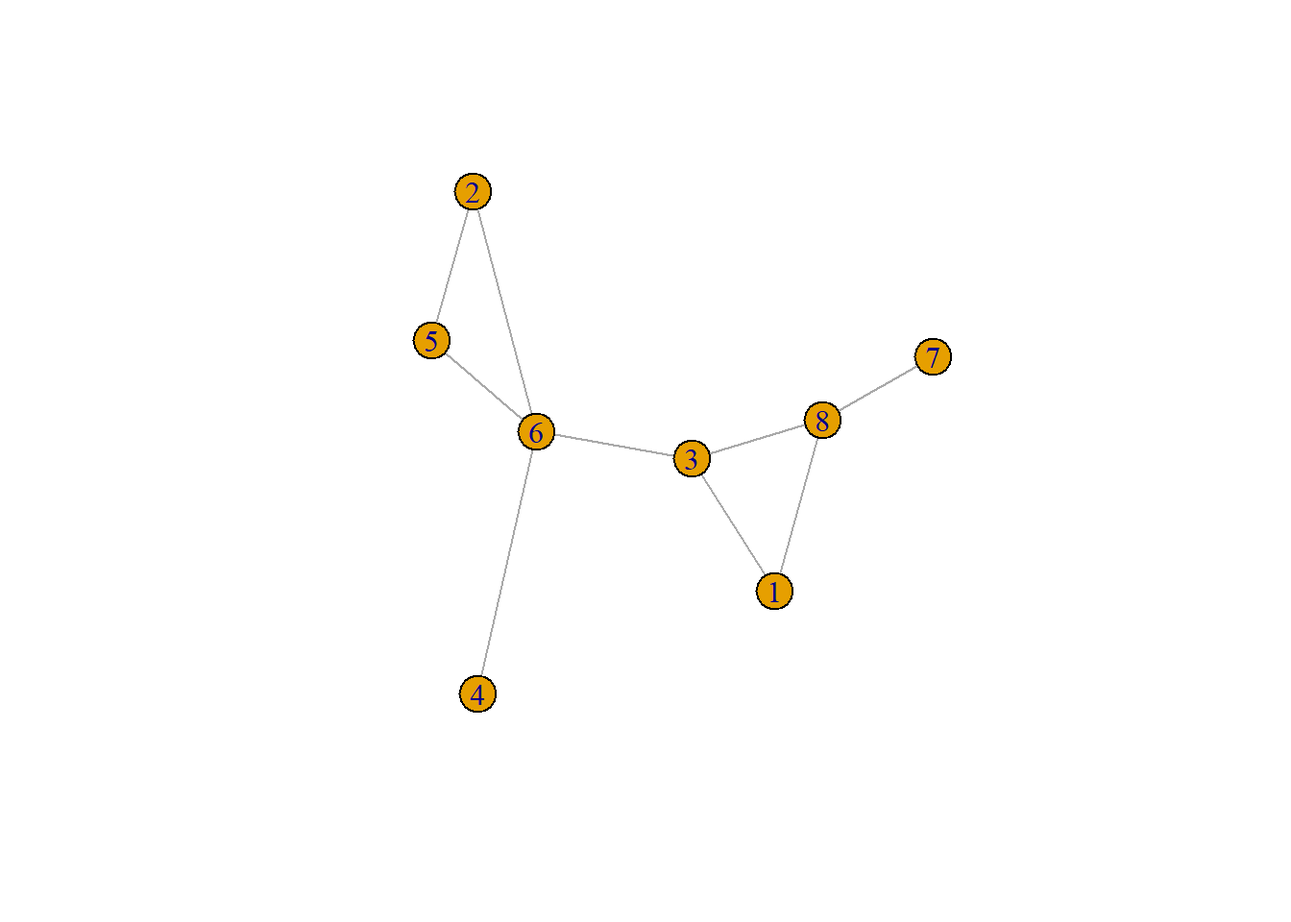
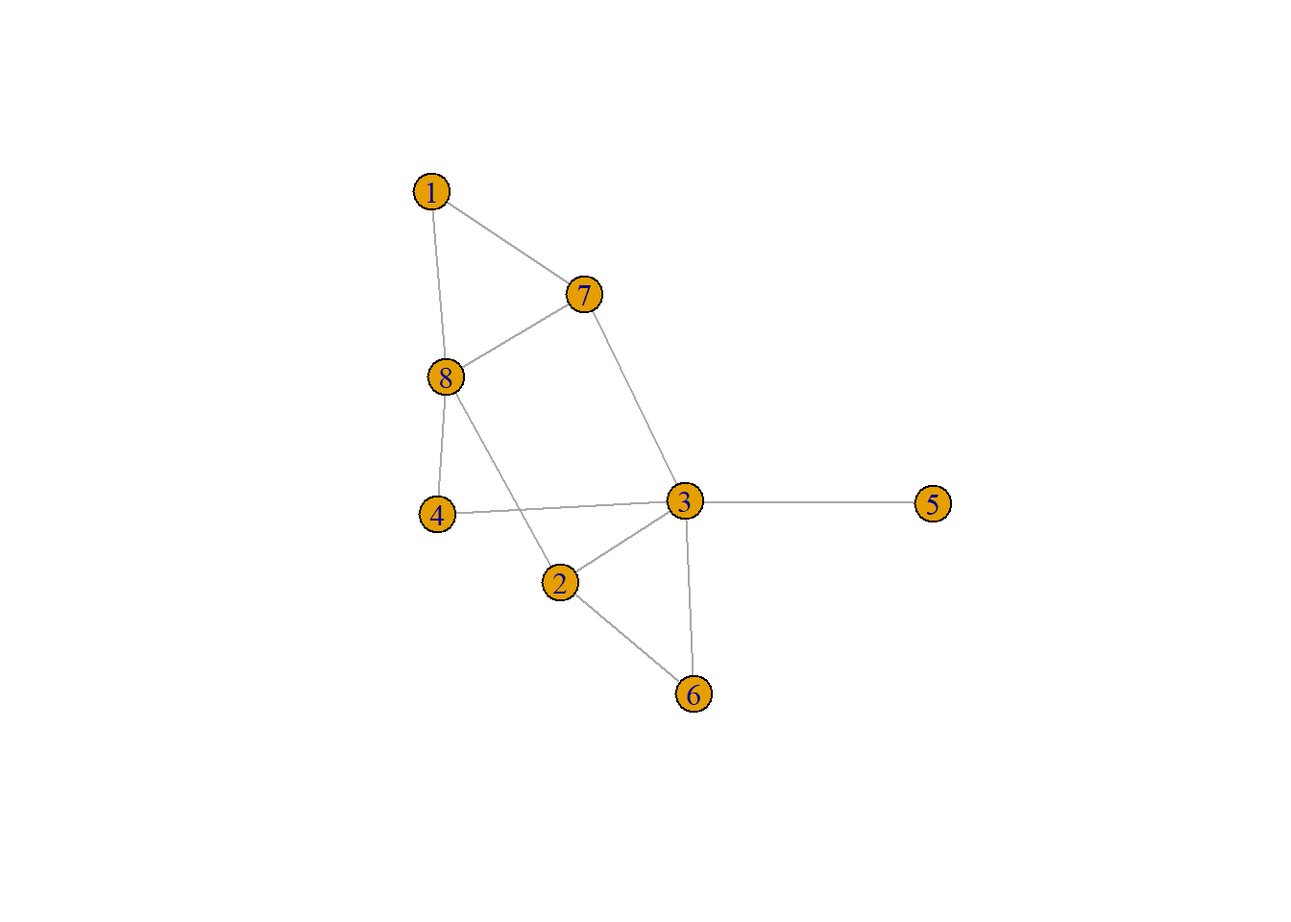
cube update

diff --git a/docs/cube.html b/docs/cube.html
@@ -150,7 +150,7 @@ div.csl-indent {
 
 <link rel="stylesheet" href="styles.css">
 <meta property="og:title" content="SOCIOL 208 - The Cube">
-<meta property="og:description" content="Brandes, Borgatti, and Freeman (2016) discuss the centrality “cube,” and interesting an intuitive way to understand the way betweenness centrality works, as well as the dual connection between…">
+<meta property="og:description" content="Brandes, Borgatti, and Freeman (2016) discuss the centrality “cube,” an interesting and intuitive way to understand the way betweenness centrality works, as well as the dual connection between…">
 <meta property="og:site-name" content="SOCIOL 208">
 </head>
 
@@ -266,7 +266,14 @@ div.csl-indent {
 </nav>
 <!-- margin-sidebar -->
     <div id="quarto-margin-sidebar" class="sidebar margin-sidebar">
-        
+        <nav id="TOC" role="doc-toc" class="toc-active">
+    <h2 id="toc-title">On this page</h2>
+   
+  <ul>
+  <li><a href="#building-the-cube" id="toc-building-the-cube" class="nav-link active" data-scroll-target="#building-the-cube">Building the Cube</a></li>
+  <li><a href="#exploring-the-cube" id="toc-exploring-the-cube" class="nav-link" data-scroll-target="#exploring-the-cube">Exploring the Cube</a></li>
+  </ul>
+<div class="toc-actions"><div><i class="bi bi-github"></i></div><div class="action-links"><p><a href="https://github.com/olizardo/SOCIOL208/blob/main/cube.qmd" class="toc-action">View source</a></p></div></div></nav>
     </div>
 <!-- main -->
 <main class="content" id="quarto-document-content">
@@ -288,11 +295,11 @@ div.csl-indent {
 
 </header>
 
-<p><span class="citation" data-cites="brandes_etal16">Brandes, Borgatti, and Freeman (<a href="#ref-brandes_etal16" role="doc-biblioref">2016</a>)</span> discuss the centrality “cube,” and interesting an intuitive way to understand the way betweenness centrality works, as well as the dual connection between closeness and betweenness.</p>
+<p><span class="citation" data-cites="brandes_etal16">Brandes, Borgatti, and Freeman (<a href="#ref-brandes_etal16" role="doc-biblioref">2016</a>)</span> discuss the centrality “cube,” an interesting and intuitive way to understand the way betweenness centrality works, as well as the dual connection between closeness and betweenness.</p>
 <p>Let us illustrate using a simple example. We begin by creating an Erdos-Renyi graph with eight nodes and connection probability <span class="math inline">\(p = 0.5\)</span>:</p>
 <div class="cell">
 <div class="sourceCode cell-code" id="cb1"><pre class="sourceCode numberSource r number-lines code-with-copy"><code class="sourceCode r"><span id="cb1-1"><a href="#cb1-1"></a>   <span class="fu">library</span>(igraph)</span>
-<span id="cb1-2"><a href="#cb1-2"></a>   <span class="fu">set.seed</span>(<span class="dv">234</span>)</span>
+<span id="cb1-2"><a href="#cb1-2"></a>   <span class="fu">set.seed</span>(<span class="dv">345</span>)</span>
 <span id="cb1-3"><a href="#cb1-3"></a>   g <span class="ot">&lt;-</span> <span class="fu">erdos.renyi.game</span>(<span class="dv">8</span>, <span class="fl">0.5</span>)</span></code><button title="Copy to Clipboard" class="code-copy-button"><i class="bi"></i></button></pre></div>
 </div>
 <p>The resulting graph looks like:</p>
@@ -302,9 +309,11 @@ div.csl-indent {
 </div>
 </div>
 <p>The basic innovation behind the centrality cube is to store the intermediation information among every node triplet in the graph <span class="math inline">\(s\)</span>, <span class="math inline">\(r\)</span>, <span class="math inline">\(b\)</span> (standing for “<strong>s</strong>ender,” <strong>r</strong>eceiver,” and “<strong>b</strong>roker”) in a three dimensional <em>array</em> rather than the usual two dimensional matrix.</p>
-<p>The three dimensional array can be thought of as a “cube” by stacking multiple reachability matrices between every pair <span class="math inline">\(s\)</span> and <span class="math inline">\(r\)</span> along a three dimensional dimension <span class="math inline">\(b\)</span>. So each “b-slice” of the cube will contain the number of times node <span class="math inline">\(b\)</span> stands in a shortest path between <span class="math inline">\(s\)</span> and <span class="math inline">\(r\)</span>.</p>
+<p>The three dimensional array can be thought of as a “cube” by stacking multiple reachability matrices between every pair <span class="math inline">\(s\)</span> and <span class="math inline">\(r\)</span> along a three dimensional dimension <span class="math inline">\(b\)</span>. So each “b-slice” of the cube will contain the number of times node <span class="math inline">\(b\)</span> stands in a shortest path between <span class="math inline">\(s\)</span> and <span class="math inline">\(r\)</span> divided by the total number of paths between <span class="math inline">\(s\)</span> and <span class="math inline">\(r\)</span> which as you recall computes the pairwise betweenness of <span class="math inline">\(b\)</span> with respect to <span class="math inline">\(s\)</span> and <span class="math inline">\(r\)</span>.</p>
 <p>Let’s see how that works.</p>
-<p>First, we build a simple function to count the total number of shortest paths between each pair of nodes:</p>
+<section id="building-the-cube" class="level2">
+<h2 class="anchored" data-anchor-id="building-the-cube">Building the Cube</h2>
+<p>First, we write a simple function to count the total number of shortest paths between each pair of nodes:</p>
 <div class="cell">
 <div class="sourceCode cell-code" id="cb2"><pre class="sourceCode numberSource r number-lines code-with-copy"><code class="sourceCode r"><span id="cb2-1"><a href="#cb2-1"></a>   nsp <span class="ot">&lt;-</span> <span class="cf">function</span>(x) {</span>
 <span id="cb2-2"><a href="#cb2-2"></a>      n <span class="ot">&lt;-</span> <span class="fu">vcount</span>(g)</span>
@@ -319,8 +328,8 @@ div.csl-indent {
 <span id="cb2-11"><a href="#cb2-11"></a>      <span class="fu">return</span>(S)</span>
 <span id="cb2-12"><a href="#cb2-12"></a>   }</span></code><button title="Copy to Clipboard" class="code-copy-button"><i class="bi"></i></button></pre></div>
 </div>
-<p>The function is called <code>nsp</code> and takes a graph as input and returns and matrix called <span class="math inline">\(\mathbf{S}\)</span> with entries <span class="math inline">\(s_{ij}\)</span> equal to the total number of shortest paths between <span class="math inline">\(i\)</span> and <span class="math inline">\(j\)</span>. This is done by computing the <code>length</code> of the list returned by the <code>all_shortest_paths</code> function in <code>igraph</code> for each pair of non-adjacent nodes.</p>
-<p>Second, we write a user function to build the cube. Here’s a not-so-efficient (programming wise) but working example:</p>
+<p>The function is called <code>nsp</code> and takes a graph as input and returns and matrix called <span class="math inline">\(\mathbf{S}\)</span> with entries <span class="math inline">\(s_{ij}\)</span> equal to the total number of shortest paths between <span class="math inline">\(i\)</span> and <span class="math inline">\(j\)</span>. This is done by computing the <code>length</code> of the list returned by the <code>all_shortest_paths</code> function in <code>igraph</code> for each pair of non-adjacent nodes, which we check using the <code>neighbors</code> function (which returns a vector of the node ids of nodes adjacent to a given node <span class="math inline">\(i\)</span> in the graph). The <code>all_shortest_paths</code> function, in turn, takes three inputs: (1) A graph, (2) the sender node, and (3) the receiver node (which can be a vector of receiver nodes).</p>
+<p>Second, we write a user defined function to build the cube. Here’s a not-so-efficient (programming wise) but working example:</p>
 <div class="cell">
 <div class="sourceCode cell-code" id="cb3"><pre class="sourceCode numberSource r number-lines code-with-copy"><code class="sourceCode r"><span id="cb3-1"><a href="#cb3-1"></a>   cube <span class="ot">&lt;-</span> <span class="cf">function</span>(g) {</span>
 <span id="cb3-2"><a href="#cb3-2"></a>   kill.ends <span class="ot">&lt;-</span> <span class="cf">function</span>(x) {</span>
@@ -352,62 +361,89 @@ div.csl-indent {
 <span id="cb3-28"><a href="#cb3-28"></a>      c[, , i] <span class="ot">&lt;-</span> c[, , i]<span class="sc">/</span>S</span>
 <span id="cb3-29"><a href="#cb3-29"></a>      }</span>
 <span id="cb3-30"><a href="#cb3-30"></a>   c[<span class="fu">is.na</span>(c)] <span class="ot">&lt;-</span> <span class="dv">0</span></span>
-<span id="cb3-31"><a href="#cb3-31"></a>   c <span class="ot">&lt;-</span> <span class="fu">round</span>(c, <span class="dv">2</span>)</span>
-<span id="cb3-32"><a href="#cb3-32"></a>   <span class="fu">return</span>(c)</span>
-<span id="cb3-33"><a href="#cb3-33"></a>   }</span></code><button title="Copy to Clipboard" class="code-copy-button"><i class="bi"></i></button></pre></div>
+<span id="cb3-31"><a href="#cb3-31"></a>   <span class="fu">return</span>(c)</span>
+<span id="cb3-32"><a href="#cb3-32"></a>   }</span></code><button title="Copy to Clipboard" class="code-copy-button"><i class="bi"></i></button></pre></div>
 </div>
 <p>We name the function <code>cube</code>. Lines 2-5 it’s just a mini-function called <code>kill.ends</code> within the <code>cube</code> function that takes a vector as input and returns the same vector minus the first and last element as output. This will come in handy when we want to extract the <strong>inner nodes</strong> (brokers) of the path information returned by the <code>igraph</code> function <code>all_shortest_paths</code> while dropping the sender and receiver nodes.</p>
 <p>Line 8 initializes the <code>array</code> in <code>R</code>. It takes a string of zeros of length <span class="math inline">\(n^2 \times n\)</span> where <span class="math inline">\(n\)</span> is the number of nodes and crams them into an <span class="math inline">\(n \times n \times n\)</span> array. Basically, in this case, since <span class="math inline">\(n = 8\)</span>, this means eight empty matrices of dimensions eighth by eight stacked together to form our cube full of zeros. The <span class="math inline">\(ijk^{th}\)</span> cell of the array corresponds to sender <span class="math inline">\(i\)</span>, receiver <span class="math inline">\(j\)</span> and broker node <span class="math inline">\(k\)</span>.</p>
-<p>Lines 9-22 populate the cube with the required information using an (inefficient as noted earlier) triple <code>for</code> loop. As noted some useful <code>igraph</code> functions come into play here. In line 12 the <code>if</code> conditional inside the triple loop uses the <code>neighbors</code> function in <code>igraph</code> and checks that node <span class="math inline">\(r\)</span> is not a neighbor of <span class="math inline">\(s\)</span> (if they are directly connected then node <span class="math inline">\(b\)</span> cannot be a broker).</p>
+<p>Lines 9-25 populate the cube with the required information using an (inefficient as noted earlier) triple <code>for</code> loop. As noted some, useful <code>igraph</code> functions come into play here. In line 12 the <code>if</code> conditional inside the triple loop uses the <code>neighbors</code> function in <code>igraph</code> and checks that node <span class="math inline">\(r\)</span> is not a neighbor of <span class="math inline">\(s\)</span> (if they are directly connected then node <span class="math inline">\(b\)</span> cannot be a broker).</p>
 <p>After we check that <span class="math inline">\(s\)</span> and <span class="math inline">\(r\)</span> are not neighbors, we use the <code>all_shortest_paths</code> function in <code>igraph</code> to get all the shortest paths between <span class="math inline">\(s\)</span> and <span class="math inline">\(r\)</span> in line 13. Line 14 drops the source and receiver nodes from the vector of node ids returned by the function, and line 15 uses some <code>sapply</code> magic and the base <code>R</code> function <code>%in%</code> to check how many times <span class="math inline">\(b\)</span> shows up in that list of shortest paths between <span class="math inline">\(s\)</span> and <span class="math inline">\(r\)</span>. Finally, line 15 puts that number in the <span class="math inline">\(ijk^{th}\)</span> cell of the array, and loop through all triplets until we are done.</p>
+<p>Lines 27-29 loop through the cube again, this time to take the ratio of the number of shortest paths involving each broker node to the <em>total</em> number of shortest paths between each pair (the pairwise betweenness), which we computed in line 26 using our trusty <code>nsp</code> function. So all we have to do is divided each eight by eight matrix in the cube by the <span class="math inline">\(S\)</span> matrix.</p>
+</section>
+<section id="exploring-the-cube" class="level2">
+<h2 class="anchored" data-anchor-id="exploring-the-cube">Exploring the Cube</h2>
 <p>Once we have our array, we can create all kinds of interesting sub-matrices containing the intermediation information in the graph by summing rows and columns of the array along different dimensions.</p>
-<p>For instance, let’s take the row sums of the <span class="math inline">\(s\)</span> to <span class="math inline">\(r\)</span> corresponding to node 6 as the broker. This can be done like this:</p>
+<p>First, let us see what’s in the cube. We can query specific two-dimensional sub-matrices using an extension of the usual format for querying matrices in <code>R</code> for three-dimensional arrays. For instance this:</p>
 <div class="cell">
 <div class="sourceCode cell-code" id="cb4"><pre class="sourceCode numberSource r number-lines code-with-copy"><code class="sourceCode r"><span id="cb4-1"><a href="#cb4-1"></a>   srb <span class="ot">&lt;-</span> <span class="fu">cube</span>(g)</span>
-<span id="cb4-2"><a href="#cb4-2"></a>   <span class="fu">rowSums</span>(srb[ , , <span class="dv">6</span>])</span></code><button title="Copy to Clipboard" class="code-copy-button"><i class="bi"></i></button></pre></div>
+<span id="cb4-2"><a href="#cb4-2"></a>   <span class="fu">round</span>(srb[, , <span class="dv">2</span>], <span class="dv">2</span>)</span></code><button title="Copy to Clipboard" class="code-copy-button"><i class="bi"></i></button></pre></div>
 <div class="cell-output cell-output-stdout">
-<pre><code>[1] 3 5 3 6 5 0 3 3</code></pre>
+<pre><code>     [,1] [,2] [,3] [,4] [,5] [,6] [,7] [,8]
+[1,]  0.0    0 0.00    0 0.00  0.5    0 0.00
+[2,]  0.0    0 0.00    0 0.00  0.0    0 0.00
+[3,]  0.0    0 0.00    0 0.00  0.0    0 0.33
+[4,]  0.0    0 0.00    0 0.00  0.0    0 0.00
+[5,]  0.0    0 0.00    0 0.00  0.0    0 0.33
+[6,]  0.5    0 0.00    0 0.00  0.0    0 1.00
+[7,]  0.0    0 0.00    0 0.00  0.0    0 0.00
+[8,]  0.0    0 0.33    0 0.33  1.0    0 0.00</code></pre>
 </div>
 </div>
-<p>As <span class="citation" data-cites="brandes_etal16">Brandes, Borgatti, and Freeman (<a href="#ref-brandes_etal16" role="doc-biblioref">2016</a>)</span>, note this vector gives us the dependence of each node in the graph on node 6. Obviously node 6 doesn’t depend on itself so there is a zero on the sixth spot in the vector. As is clear from the plot, nodes 2 and 5 are the most dependent on 6 for intermediation.</p>
+<p>Creates a three-dimensional matrix of pairwise betweenness probabilities, assigns it to the <code>srb</code> object, and looks at the <span class="math inline">\(i \times j \times 2\)</span> entry.</p>
+<p>Because each sub-matrix in the cube is a matrix, we can do the usual matrix operations on them. For instance, let’s take the row sums of the <span class="math inline">\(s\)</span> to <span class="math inline">\(r\)</span> corresponding to node 3 as the broker. This can be done like this:</p>
+<div class="cell">
+<div class="sourceCode cell-code" id="cb6"><pre class="sourceCode numberSource r number-lines code-with-copy"><code class="sourceCode r"><span id="cb6-1"><a href="#cb6-1"></a>   d<span class="fl">.3</span> <span class="ot">&lt;-</span> <span class="fu">rowSums</span>(srb[ , , <span class="dv">3</span>])</span>
+<span id="cb6-2"><a href="#cb6-2"></a>   <span class="fu">names</span>(d<span class="fl">.3</span>) <span class="ot">&lt;-</span> <span class="dv">1</span><span class="sc">:</span><span class="fu">vcount</span>(g)</span>
+<span id="cb6-3"><a href="#cb6-3"></a>   d<span class="fl">.3</span></span></code><button title="Copy to Clipboard" class="code-copy-button"><i class="bi"></i></button></pre></div>
+<div class="cell-output cell-output-stdout">
+<pre><code>  1   2   3   4   5   6   7   8 
+1.5 2.0 0.0 3.0 6.0 3.5 3.0 1.0 </code></pre>
+</div>
+</div>
+<p>As <span class="citation" data-cites="brandes_etal16">Brandes, Borgatti, and Freeman (<a href="#ref-brandes_etal16" role="doc-biblioref">2016</a>)</span>, note this vector gives us the dependence of each node in the graph on node 3. Obviously node 3 doesn’t depend on itself so there is a zero on the third spot in the vector. As is clear from the plot, node 5 is the most dependent on 3 for intermediation with the rest of the nodes in the graph.</p>
 <p>Note also that the betweenness centrality of each node is encoded in the cube, because we already computed the main ratio that the measure depends on. So to get each node’s betweenness we just sum up the entries in each of the cube’s sub-matrices:</p>
 <div class="cell">
-<div class="sourceCode cell-code" id="cb6"><pre class="sourceCode numberSource r number-lines code-with-copy"><code class="sourceCode r"><span id="cb6-1"><a href="#cb6-1"></a>   b.cube <span class="ot">&lt;-</span> <span class="fu">colSums</span>(srb, <span class="at">dims =</span> <span class="dv">2</span>)<span class="sc">/</span><span class="dv">2</span></span>
-<span id="cb6-2"><a href="#cb6-2"></a>   b.igraph <span class="ot">&lt;-</span> <span class="fu">betweenness</span>(g)</span>
-<span id="cb6-3"><a href="#cb6-3"></a>   b.cube</span></code><button title="Copy to Clipboard" class="code-copy-button"><i class="bi"></i></button></pre></div>
+<div class="sourceCode cell-code" id="cb8"><pre class="sourceCode numberSource r number-lines code-with-copy"><code class="sourceCode r"><span id="cb8-1"><a href="#cb8-1"></a>   b.cube <span class="ot">&lt;-</span> <span class="fu">round</span>(<span class="fu">colSums</span>(srb, <span class="at">dims =</span> <span class="dv">2</span>)<span class="sc">/</span><span class="dv">2</span>, <span class="dv">2</span>)</span>
+<span id="cb8-2"><a href="#cb8-2"></a>   b.igraph <span class="ot">&lt;-</span> <span class="fu">round</span>(<span class="fu">betweenness</span>(g), <span class="dv">2</span>)</span>
+<span id="cb8-3"><a href="#cb8-3"></a>   <span class="fu">names</span>(b.cube) <span class="ot">&lt;-</span> <span class="dv">1</span><span class="sc">:</span><span class="fu">vcount</span>(g)</span>
+<span id="cb8-4"><a href="#cb8-4"></a>   <span class="fu">names</span>(b.igraph) <span class="ot">&lt;-</span> <span class="dv">1</span><span class="sc">:</span><span class="fu">vcount</span>(g)</span>
+<span id="cb8-5"><a href="#cb8-5"></a>   b.cube</span></code><button title="Copy to Clipboard" class="code-copy-button"><i class="bi"></i></button></pre></div>
 <div class="cell-output cell-output-stdout">
-<pre><code>[1]  0  0 12  0  0 14  0  6</code></pre>
+<pre><code>    1     2     3     4     5     6     7     8 
+ 0.00  2.17 10.00  0.67  0.00  0.00  3.17  4.00 </code></pre>
 </div>
-<div class="sourceCode cell-code" id="cb8"><pre class="sourceCode numberSource r number-lines code-with-copy"><code class="sourceCode r"><span id="cb8-1"><a href="#cb8-1"></a>   b.igraph</span></code><button title="Copy to Clipboard" class="code-copy-button"><i class="bi"></i></button></pre></div>
+<div class="sourceCode cell-code" id="cb10"><pre class="sourceCode numberSource r number-lines code-with-copy"><code class="sourceCode r"><span id="cb10-1"><a href="#cb10-1"></a>   b.igraph</span></code><button title="Copy to Clipboard" class="code-copy-button"><i class="bi"></i></button></pre></div>
 <div class="cell-output cell-output-stdout">
-<pre><code>[1]  0  0 12  0  0 14  0  6</code></pre>
+<pre><code>    1     2     3     4     5     6     7     8 
+ 0.00  2.17 10.00  0.67  0.00  0.00  3.17  4.00 </code></pre>
 </div>
 </div>
-<p>Note we dived the cube betweenness by two because we are summing identical entries across the upper and lower triangle of the symmetric matrices inside the cube.</p>
-<p>In any case, using the cube info we can build a matrix of <em>dependencies</em> between each pair of nodes. In this matrix, the rows correspond to a sender (or receiver) node, the columns to a broker node and the <span class="math inline">\(ij^{th}\)</span> contains the number of times the column node stands in a shortest path that starts with the row node.</p>
+<p>Note the neat trick of using the argument <code>dims = 2</code> in the usual <code>colSums</code> command. This tells <code>colSums</code> that we are dealing with a three dimensional matrix, and that what we want is the sum of the columns across the cube’s third dimension (the brokers). Note also that we divide the cube betweenness by two because we are summing identical entries across the upper and lower triangle of the symmetric dyadic brokerage matrices inside the cube.</p>
+<p>Not surprisingly, node 3 is the top betweenness centrality node.</p>
+<p>As <span class="citation" data-cites="brandes_etal16">Brandes, Borgatti, and Freeman (<a href="#ref-brandes_etal16" role="doc-biblioref">2016</a>)</span> point out, using the cube info, we can build a matrix of <em>dependencies</em> between each pair of nodes. In this matrix, the rows correspond to a sender (or receiver) node, the columns to a broker node and the <span class="math inline">\(sb^{th}\)</span> entry contains the number of times the broker node stands in a shortest path that starts with the sender node.</p>
 <p>Here’s a function that uses the cube info to build the dependency matrix that <span class="citation" data-cites="brandes_etal16">Brandes, Borgatti, and Freeman (<a href="#ref-brandes_etal16" role="doc-biblioref">2016</a>)</span> talk about using the cube as input:</p>
 <div class="cell">
-<div class="sourceCode cell-code" id="cb10"><pre class="sourceCode numberSource r number-lines code-with-copy"><code class="sourceCode r"><span id="cb10-1"><a href="#cb10-1"></a>   dep.ij <span class="ot">&lt;-</span> <span class="cf">function</span>(c) {</span>
-<span id="cb10-2"><a href="#cb10-2"></a>      n <span class="ot">&lt;-</span> <span class="fu">nrow</span>(c)</span>
-<span id="cb10-3"><a href="#cb10-3"></a>      dep.ij <span class="ot">&lt;-</span> <span class="fu">rowSums</span>(c[, , <span class="dv">1</span>])</span>
-<span id="cb10-4"><a href="#cb10-4"></a>      <span class="cf">for</span> (i <span class="cf">in</span> <span class="dv">2</span><span class="sc">:</span>n) {</span>
-<span id="cb10-5"><a href="#cb10-5"></a>         dep.ij <span class="ot">&lt;-</span> <span class="fu">cbind</span>(dep.ij,  <span class="fu">rowSums</span>(c[, , i]))</span>
-<span id="cb10-6"><a href="#cb10-6"></a>         </span>
-<span id="cb10-7"><a href="#cb10-7"></a>         }</span>
-<span id="cb10-8"><a href="#cb10-8"></a>      <span class="fu">rownames</span>(dep.ij) <span class="ot">&lt;-</span> <span class="dv">1</span><span class="sc">:</span>n</span>
-<span id="cb10-9"><a href="#cb10-9"></a>      <span class="fu">colnames</span>(dep.ij) <span class="ot">&lt;-</span> <span class="dv">1</span><span class="sc">:</span>n</span>
-<span id="cb10-10"><a href="#cb10-10"></a>      <span class="fu">return</span>(dep.ij)</span>
-<span id="cb10-11"><a href="#cb10-11"></a>   }</span></code><button title="Copy to Clipboard" class="code-copy-button"><i class="bi"></i></button></pre></div>
+<div class="sourceCode cell-code" id="cb12"><pre class="sourceCode numberSource r number-lines code-with-copy"><code class="sourceCode r"><span id="cb12-1"><a href="#cb12-1"></a>   dep.ij <span class="ot">&lt;-</span> <span class="cf">function</span>(c) {</span>
+<span id="cb12-2"><a href="#cb12-2"></a>      n <span class="ot">&lt;-</span> <span class="fu">nrow</span>(c)</span>
+<span id="cb12-3"><a href="#cb12-3"></a>      dep.ij <span class="ot">&lt;-</span> <span class="fu">rowSums</span>(c[, , <span class="dv">1</span>])</span>
+<span id="cb12-4"><a href="#cb12-4"></a>      <span class="cf">for</span> (i <span class="cf">in</span> <span class="dv">2</span><span class="sc">:</span>n) {</span>
+<span id="cb12-5"><a href="#cb12-5"></a>         dep.ij <span class="ot">&lt;-</span> <span class="fu">cbind</span>(dep.ij,  <span class="fu">rowSums</span>(c[, , i]))</span>
+<span id="cb12-6"><a href="#cb12-6"></a>         </span>
+<span id="cb12-7"><a href="#cb12-7"></a>         }</span>
+<span id="cb12-8"><a href="#cb12-8"></a>      <span class="fu">rownames</span>(dep.ij) <span class="ot">&lt;-</span> <span class="dv">1</span><span class="sc">:</span>n</span>
+<span id="cb12-9"><a href="#cb12-9"></a>      <span class="fu">colnames</span>(dep.ij) <span class="ot">&lt;-</span> <span class="dv">1</span><span class="sc">:</span>n</span>
+<span id="cb12-10"><a href="#cb12-10"></a>      <span class="fu">return</span>(dep.ij)</span>
+<span id="cb12-11"><a href="#cb12-11"></a>   }</span></code><button title="Copy to Clipboard" class="code-copy-button"><i class="bi"></i></button></pre></div>
 </div>
 <p>This function just takes the various vectors formed by the row sums of the sender-receiver matrix across each value of the third dimension (which is just each node in the graph when playing the broker role). It then returns a regular old <span class="math inline">\(n \times n\)</span> containing the info.</p>
 <p>Here’s the result when applied to our little example:</p>
 <div class="cell">
-<div class="sourceCode cell-code" id="cb11"><pre class="sourceCode numberSource r number-lines code-with-copy"><code class="sourceCode r"><span id="cb11-1"><a href="#cb11-1"></a>   d <span class="ot">&lt;-</span> <span class="fu">dep.ij</span>(srb)</span>
-<span id="cb11-2"><a href="#cb11-2"></a>   <span class="fu">library</span>(kableExtra)</span>
-<span id="cb11-3"><a href="#cb11-3"></a>   <span class="fu">kbl</span>(d, <span class="at">format =</span> <span class="st">"html"</span>, <span class="at">align =</span> <span class="st">"c"</span>, <span class="at">row.names =</span> <span class="cn">TRUE</span>,</span>
-<span id="cb11-4"><a href="#cb11-4"></a>       <span class="at">caption =</span> <span class="st">"Dependence Matrix."</span>) <span class="sc">%&gt;%</span> </span>
-<span id="cb11-5"><a href="#cb11-5"></a>      <span class="fu">column_spec</span>(<span class="dv">1</span>, <span class="at">bold =</span> <span class="cn">TRUE</span>) <span class="sc">%&gt;%</span></span>
-<span id="cb11-6"><a href="#cb11-6"></a>   <span class="fu">kable_styling</span>(<span class="at">bootstrap_options =</span> <span class="fu">c</span>(<span class="st">"hover"</span>, <span class="st">"condensed"</span>, <span class="st">"responsive"</span>))</span></code><button title="Copy to Clipboard" class="code-copy-button"><i class="bi"></i></button></pre></div>
+<div class="sourceCode cell-code" id="cb13"><pre class="sourceCode numberSource r number-lines code-with-copy"><code class="sourceCode r"><span id="cb13-1"><a href="#cb13-1"></a>   <span class="fu">library</span>(kableExtra)</span>
+<span id="cb13-2"><a href="#cb13-2"></a>   <span class="fu">kbl</span>(<span class="fu">round</span>(<span class="fu">dep.ij</span>(srb), <span class="dv">2</span>), </span>
+<span id="cb13-3"><a href="#cb13-3"></a>       <span class="at">format =</span> <span class="st">"html"</span>, <span class="at">align =</span> <span class="st">"c"</span>, <span class="at">row.names =</span> <span class="cn">TRUE</span>,</span>
+<span id="cb13-4"><a href="#cb13-4"></a>       <span class="at">caption =</span> <span class="st">"Dependence Matrix."</span>) <span class="sc">%&gt;%</span> </span>
+<span id="cb13-5"><a href="#cb13-5"></a>      <span class="fu">column_spec</span>(<span class="dv">1</span>, <span class="at">bold =</span> <span class="cn">TRUE</span>) <span class="sc">%&gt;%</span></span>
+<span id="cb13-6"><a href="#cb13-6"></a>   <span class="fu">kable_styling</span>(<span class="at">bootstrap_options =</span> <span class="fu">c</span>(<span class="st">"hover"</span>, <span class="st">"condensed"</span>, <span class="st">"responsive"</span>))</span></code><button title="Copy to Clipboard" class="code-copy-button"><i class="bi"></i></button></pre></div>
 <div class="cell-output-display">
 
 <table class="table table-hover table-condensed table-responsive" style="margin-left: auto; margin-right: auto;">
@@ -429,123 +465,127 @@ div.csl-indent {
   <tr>
    <td style="text-align:left;font-weight: bold;"> 1 </td>
    <td style="text-align:center;"> 0 </td>
+   <td style="text-align:center;"> 0.50 </td>
+   <td style="text-align:center;"> 1.5 </td>
+   <td style="text-align:center;"> 0.00 </td>
    <td style="text-align:center;"> 0 </td>
-   <td style="text-align:center;"> 4 </td>
    <td style="text-align:center;"> 0 </td>
-   <td style="text-align:center;"> 0 </td>
-   <td style="text-align:center;"> 3 </td>
-   <td style="text-align:center;"> 0 </td>
-   <td style="text-align:center;"> 1 </td>
+   <td style="text-align:center;"> 2.50 </td>
+   <td style="text-align:center;"> 2.5 </td>
   </tr>
   <tr>
    <td style="text-align:left;font-weight: bold;"> 2 </td>
    <td style="text-align:center;"> 0 </td>
+   <td style="text-align:center;"> 0.00 </td>
+   <td style="text-align:center;"> 2.0 </td>
+   <td style="text-align:center;"> 0.00 </td>
    <td style="text-align:center;"> 0 </td>
-   <td style="text-align:center;"> 3 </td>
    <td style="text-align:center;"> 0 </td>
-   <td style="text-align:center;"> 0 </td>
-   <td style="text-align:center;"> 5 </td>
-   <td style="text-align:center;"> 0 </td>
-   <td style="text-align:center;"> 1 </td>
+   <td style="text-align:center;"> 0.00 </td>
+   <td style="text-align:center;"> 2.0 </td>
   </tr>
   <tr>
    <td style="text-align:left;font-weight: bold;"> 3 </td>
    <td style="text-align:center;"> 0 </td>
+   <td style="text-align:center;"> 0.33 </td>
+   <td style="text-align:center;"> 0.0 </td>
+   <td style="text-align:center;"> 0.33 </td>
    <td style="text-align:center;"> 0 </td>
    <td style="text-align:center;"> 0 </td>
-   <td style="text-align:center;"> 0 </td>
-   <td style="text-align:center;"> 0 </td>
-   <td style="text-align:center;"> 3 </td>
-   <td style="text-align:center;"> 0 </td>
-   <td style="text-align:center;"> 1 </td>
+   <td style="text-align:center;"> 1.33 </td>
+   <td style="text-align:center;"> 0.0 </td>
   </tr>
   <tr>
    <td style="text-align:left;font-weight: bold;"> 4 </td>
    <td style="text-align:center;"> 0 </td>
+   <td style="text-align:center;"> 0.00 </td>
+   <td style="text-align:center;"> 3.0 </td>
+   <td style="text-align:center;"> 0.00 </td>
    <td style="text-align:center;"> 0 </td>
-   <td style="text-align:center;"> 3 </td>
    <td style="text-align:center;"> 0 </td>
-   <td style="text-align:center;"> 0 </td>
-   <td style="text-align:center;"> 6 </td>
-   <td style="text-align:center;"> 0 </td>
-   <td style="text-align:center;"> 1 </td>
+   <td style="text-align:center;"> 0.00 </td>
+   <td style="text-align:center;"> 2.0 </td>
   </tr>
   <tr>
    <td style="text-align:left;font-weight: bold;"> 5 </td>
    <td style="text-align:center;"> 0 </td>
+   <td style="text-align:center;"> 0.33 </td>
+   <td style="text-align:center;"> 6.0 </td>
+   <td style="text-align:center;"> 0.33 </td>
    <td style="text-align:center;"> 0 </td>
-   <td style="text-align:center;"> 3 </td>
    <td style="text-align:center;"> 0 </td>
-   <td style="text-align:center;"> 0 </td>
-   <td style="text-align:center;"> 5 </td>
-   <td style="text-align:center;"> 0 </td>
-   <td style="text-align:center;"> 1 </td>
+   <td style="text-align:center;"> 1.33 </td>
+   <td style="text-align:center;"> 0.0 </td>
   </tr>
   <tr>
    <td style="text-align:left;font-weight: bold;"> 6 </td>
    <td style="text-align:center;"> 0 </td>
+   <td style="text-align:center;"> 1.50 </td>
+   <td style="text-align:center;"> 3.5 </td>
+   <td style="text-align:center;"> 0.00 </td>
    <td style="text-align:center;"> 0 </td>
-   <td style="text-align:center;"> 3 </td>
    <td style="text-align:center;"> 0 </td>
-   <td style="text-align:center;"> 0 </td>
-   <td style="text-align:center;"> 0 </td>
-   <td style="text-align:center;"> 0 </td>
-   <td style="text-align:center;"> 1 </td>
+   <td style="text-align:center;"> 0.50 </td>
+   <td style="text-align:center;"> 0.5 </td>
   </tr>
   <tr>
    <td style="text-align:left;font-weight: bold;"> 7 </td>
    <td style="text-align:center;"> 0 </td>
+   <td style="text-align:center;"> 0.00 </td>
+   <td style="text-align:center;"> 3.0 </td>
+   <td style="text-align:center;"> 0.00 </td>
    <td style="text-align:center;"> 0 </td>
-   <td style="text-align:center;"> 4 </td>
    <td style="text-align:center;"> 0 </td>
-   <td style="text-align:center;"> 0 </td>
-   <td style="text-align:center;"> 3 </td>
-   <td style="text-align:center;"> 0 </td>
-   <td style="text-align:center;"> 6 </td>
+   <td style="text-align:center;"> 0.00 </td>
+   <td style="text-align:center;"> 1.0 </td>
   </tr>
   <tr>
    <td style="text-align:left;font-weight: bold;"> 8 </td>
    <td style="text-align:center;"> 0 </td>
-   <td style="text-align:center;"> 0 </td>
-   <td style="text-align:center;"> 4 </td>
-   <td style="text-align:center;"> 0 </td>
-   <td style="text-align:center;"> 0 </td>
-   <td style="text-align:center;"> 3 </td>
+   <td style="text-align:center;"> 1.67 </td>
+   <td style="text-align:center;"> 1.0 </td>
+   <td style="text-align:center;"> 0.67 </td>
    <td style="text-align:center;"> 0 </td>
    <td style="text-align:center;"> 0 </td>
+   <td style="text-align:center;"> 0.67 </td>
+   <td style="text-align:center;"> 0.0 </td>
   </tr>
 </tbody>
 </table>
 
 </div>
 </div>
-<p>Note that this is valued matrix that is also <em>asymmetric</em>. Take for instance, node 3. Every node in the graph depends on node 3 for access to other nodes, but node 3 only depends on nodes 6 and 8.</p>
-<p>Interestingly, as <span class="citation" data-cites="brandes_etal16">Brandes, Borgatti, and Freeman (<a href="#ref-brandes_etal16" role="doc-biblioref">2016</a>)</span> also note, the betweenness centrality can be calculated from the dependency matrix! All we need to do is compute the column sums, equivalent to in-degree in the directed dependence network:</p>
+<p>Note that this is valued matrix that is also <em>asymmetric</em>. Take for instance, node 3. Every node in the graph depends on node 3 for access to other nodes, but node 3 does not depend on nodes 1, 5, 6, or 8.</p>
+<p>Interestingly, as <span class="citation" data-cites="brandes_etal16">Brandes, Borgatti, and Freeman (<a href="#ref-brandes_etal16" role="doc-biblioref">2016</a>)</span> also show, the betweenness centrality also can be calculated from the dependency matrix! All we need to do is compute the <em>column sums</em>, equivalent to <strong>in-degree</strong> in the directed dependence network:</p>
 <div class="cell">
-<div class="sourceCode cell-code" id="cb12"><pre class="sourceCode numberSource r number-lines code-with-copy"><code class="sourceCode r"><span id="cb12-1"><a href="#cb12-1"></a>   <span class="fu">colSums</span>(d)<span class="sc">/</span><span class="dv">2</span></span></code><button title="Copy to Clipboard" class="code-copy-button"><i class="bi"></i></button></pre></div>
-<div class="cell-output cell-output-stdout">
-<pre><code> 1  2  3  4  5  6  7  8 
- 0  0 12  0  0 14  0  6 </code></pre>
-</div>
-</div>
-<p>Even more interestingly, <strong>closeness centrality</strong> is also in the dependence matrix! It is given by the <em>outdegree</em> each actor in the dependence network, corresponding to the <em>row sums</em> of the matrix (shifted by a constant given by <span class="math inline">\(n-1\)</span>).</p>
-<div class="cell">
-<div class="sourceCode cell-code" id="cb14"><pre class="sourceCode numberSource r number-lines code-with-copy"><code class="sourceCode r"><span id="cb14-1"><a href="#cb14-1"></a>   c.c <span class="ot">&lt;-</span> <span class="fu">rowSums</span>(<span class="fu">distances</span>(g))</span>
-<span id="cb14-2"><a href="#cb14-2"></a>   c.d <span class="ot">&lt;-</span> <span class="fu">rowSums</span>(d) <span class="sc">+</span> (<span class="fu">vcount</span>(g) <span class="sc">-</span> <span class="dv">1</span>)</span>
-<span id="cb14-3"><a href="#cb14-3"></a>   <span class="fu">round</span>(<span class="dv">1</span><span class="sc">/</span>c.c, <span class="dv">3</span>)</span></code><button title="Copy to Clipboard" class="code-copy-button"><i class="bi"></i></button></pre></div>
-<div class="cell-output cell-output-stdout">
-<pre><code>[1] 0.067 0.062 0.091 0.059 0.062 0.091 0.050 0.071</code></pre>
-</div>
-<div class="sourceCode cell-code" id="cb16"><pre class="sourceCode numberSource r number-lines code-with-copy"><code class="sourceCode r"><span id="cb16-1"><a href="#cb16-1"></a>   <span class="fu">round</span>(<span class="dv">1</span><span class="sc">/</span>c.d, <span class="dv">3</span>)</span></code><button title="Copy to Clipboard" class="code-copy-button"><i class="bi"></i></button></pre></div>
+<div class="sourceCode cell-code" id="cb14"><pre class="sourceCode numberSource r number-lines code-with-copy"><code class="sourceCode r"><span id="cb14-1"><a href="#cb14-1"></a>   <span class="fu">round</span>(<span class="fu">colSums</span>(<span class="fu">dep.ij</span>(srb))<span class="sc">/</span><span class="dv">2</span>, <span class="dv">2</span>)</span></code><button title="Copy to Clipboard" class="code-copy-button"><i class="bi"></i></button></pre></div>
 <div class="cell-output cell-output-stdout">
 <pre><code>    1     2     3     4     5     6     7     8 
-0.067 0.062 0.091 0.059 0.062 0.091 0.050 0.071 </code></pre>
+ 0.00  2.17 10.00  0.67  0.00  0.00  3.17  4.00 </code></pre>
 </div>
 </div>
-<p>This makes sense since for an actor to have high closeness and be able to reach other, they have to depend on the most actors in the network as intermediaries.</p>
+<p>Even more interestingly, <strong>closeness centrality</strong> is also in the dependence matrix! It is given by the <em>outdegree</em> of each actor in the directed dependence network, corresponding to the <em>row sums</em> of the matrix (shifted by a constant given by <span class="math inline">\(n-1\)</span>).</p>
+<div class="cell">
+<div class="sourceCode cell-code" id="cb16"><pre class="sourceCode numberSource r number-lines code-with-copy"><code class="sourceCode r"><span id="cb16-1"><a href="#cb16-1"></a>   c.c <span class="ot">&lt;-</span> <span class="fu">rowSums</span>(<span class="fu">distances</span>(g))</span>
+<span id="cb16-2"><a href="#cb16-2"></a>   c.d <span class="ot">&lt;-</span> <span class="fu">rowSums</span>(<span class="fu">dep.ij</span>(srb)) <span class="sc">+</span> (<span class="fu">vcount</span>(g) <span class="sc">-</span> <span class="dv">1</span>)</span>
+<span id="cb16-3"><a href="#cb16-3"></a>   <span class="fu">names</span>(c.c) <span class="ot">&lt;-</span> <span class="dv">1</span><span class="sc">:</span><span class="fu">vcount</span>(g)</span>
+<span id="cb16-4"><a href="#cb16-4"></a>   <span class="fu">names</span>(c.d) <span class="ot">&lt;-</span> <span class="dv">1</span><span class="sc">:</span><span class="fu">vcount</span>(g)</span>
+<span id="cb16-5"><a href="#cb16-5"></a>   <span class="fu">round</span>(<span class="dv">1</span><span class="sc">/</span>c.c, <span class="dv">3</span>)</span></code><button title="Copy to Clipboard" class="code-copy-button"><i class="bi"></i></button></pre></div>
+<div class="cell-output cell-output-stdout">
+<pre><code>    1     2     3     4     5     6     7     8 
+0.071 0.091 0.111 0.083 0.067 0.077 0.091 0.091 </code></pre>
+</div>
+<div class="sourceCode cell-code" id="cb18"><pre class="sourceCode numberSource r number-lines code-with-copy"><code class="sourceCode r"><span id="cb18-1"><a href="#cb18-1"></a>   <span class="fu">round</span>(<span class="dv">1</span><span class="sc">/</span>c.d, <span class="dv">3</span>)</span></code><button title="Copy to Clipboard" class="code-copy-button"><i class="bi"></i></button></pre></div>
+<div class="cell-output cell-output-stdout">
+<pre><code>    1     2     3     4     5     6     7     8 
+0.071 0.091 0.111 0.083 0.067 0.077 0.091 0.091 </code></pre>
+</div>
+</div>
+<p>Here we see that node 3 is also the top in closeness, followed closely (pun intended) by nodes 2, 7, and 8. This makes sense because an actor with high closeness is one that has <em>low dependence</em> on key nodes to be able to reach others.</p>
 
 
 
+</section>
 
 <div id="quarto-appendix" class="default"><section class="quarto-appendix-contents" role="doc-bibliography"><h2 class="anchored quarto-appendix-heading">References</h2><div id="refs" class="references csl-bib-body hanging-indent" role="doc-bibliography">
 <div id="ref-brandes_etal16" class="csl-entry" role="doc-biblioentry">
